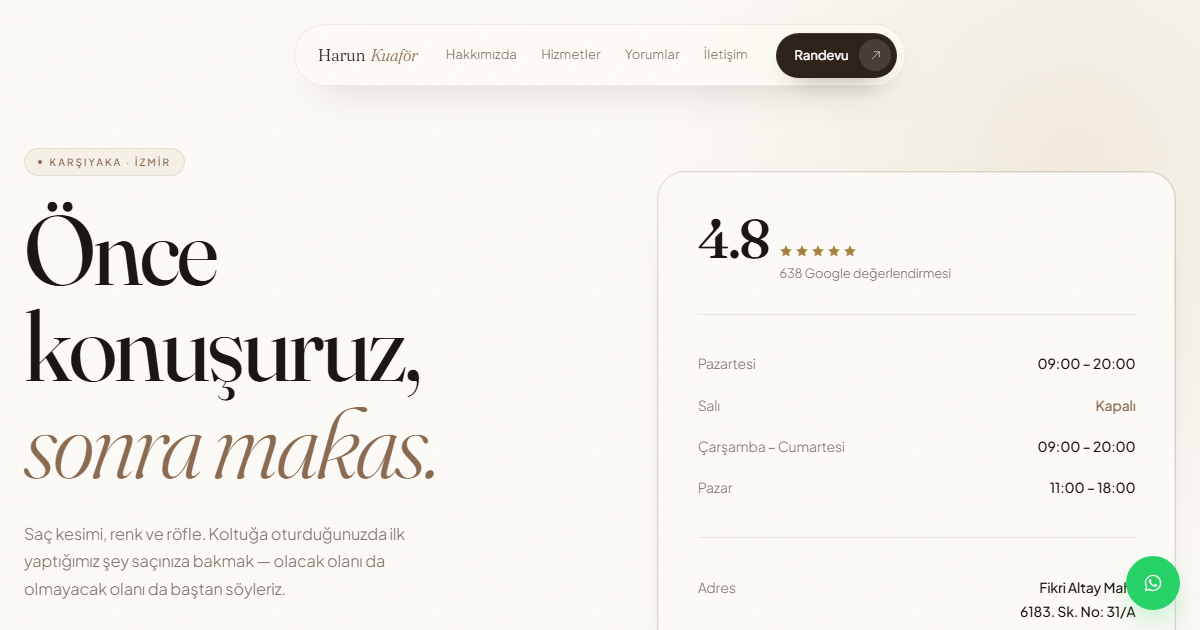
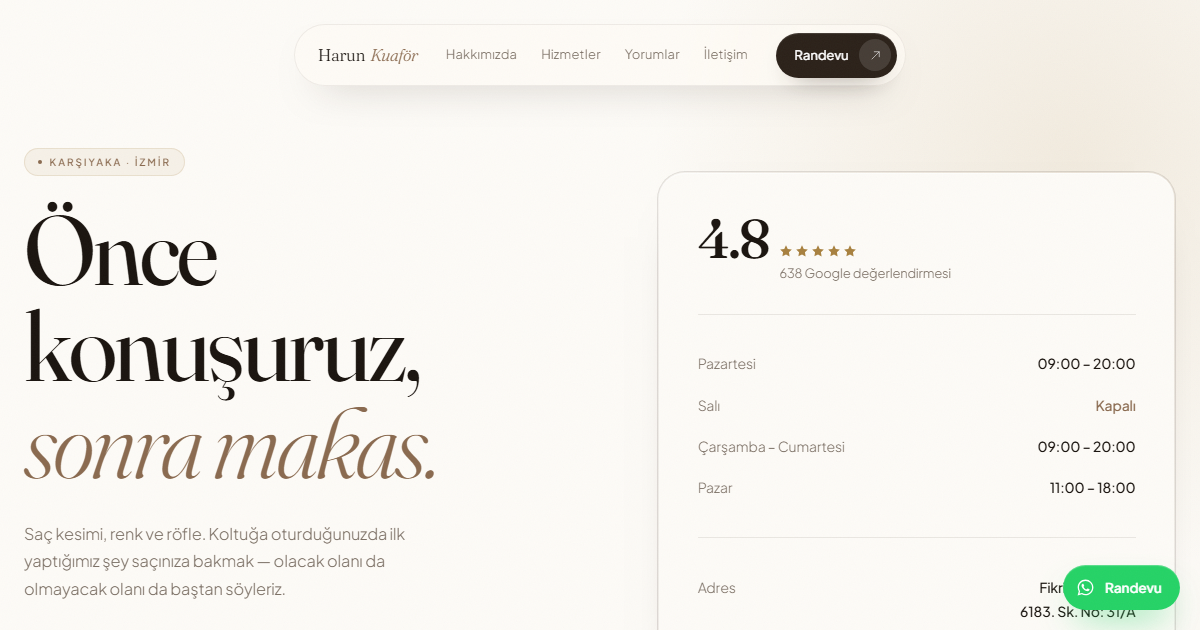
Etiketli WhatsApp hapi (babygirl kalibi)

Changed region(s): [[0.8633, 0.8746, 0.9867, 1.0]]

diff --git a/index.html b/index.html
@@ -266,12 +266,14 @@ footer ul a{display:inline-flex;align-items:center;min-height:44px;margin:-.55re
 .fbot{margin-top:4rem;padding-top:1.8rem;border-top:1px solid var(--hair-lt);display:flex;justify-content:space-between;gap:1rem;flex-wrap:wrap;font-size:.78rem;color:rgba(253,251,247,.42)}
 
 /* floating whatsapp */
-.wa{position:fixed;right:1.25rem;bottom:1.25rem;z-index:40;width:3.4rem;height:3.4rem;border-radius:999px;
-  background:#25D366;display:grid;place-items:center;
-  box-shadow:0 16px 34px -14px rgba(37,211,102,.75);
-  transition:transform .6s var(--ease)}
-.wa:hover{transform:scale(1.06) translateY(-2px)}
-.wa svg{width:20px;height:20px;fill:#fff}
+.wa{position:fixed;right:1.25rem;bottom:1.25rem;z-index:40;
+  display:inline-flex;align-items:center;gap:.6rem;padding:.7rem 1.15rem .7rem .85rem;border-radius:999px;
+  background:#25D366;color:#fff;font-size:.85rem;font-weight:600;letter-spacing:-.01em;
+  box-shadow:inset 0 1px 1px rgba(255,255,255,.28), 0 18px 36px -14px rgba(37,211,102,.7);
+  transition:transform .6s var(--ease), box-shadow .6s var(--ease)}
+.wa:hover{transform:translateY(-2px) scale(1.03);box-shadow:inset 0 1px 1px rgba(255,255,255,.28), 0 22px 42px -14px rgba(37,211,102,.8)}
+.wa svg{width:19px;height:19px;fill:#fff;flex:none}
+@media (max-width:768px){.wa{right:1rem;bottom:1rem}}
 
 /* ── mobile collapse ───────────────────────── */
 @media (max-width:900px){
@@ -627,7 +629,7 @@ footer ul a{display:inline-flex;align-items:center;min-height:44px;margin:-.55re
 
 <a class="wa" href="https://wa.me/905051158132" target="_blank" rel="noopener" aria-label="WhatsApp">
   <svg viewBox="0 0 24 24"><path d="M12.04 2C6.58 2 2.13 6.45 2.13 11.91c0 1.75.46 3.45 1.32 4.95L2 22l5.25-1.38a9.9 9.9 0 004.79 1.22h.01c5.46 0 9.91-4.45 9.91-9.91 0-2.65-1.03-5.14-2.9-7.01A9.82 9.82 0 0012.04 2zm0 18.15h-.01a8.2 8.2 0 01-4.19-1.15l-.3-.18-3.12.82.83-3.04-.2-.31a8.22 8.22 0 01-1.26-4.38c0-4.54 3.7-8.23 8.25-8.23a8.2 8.2 0 015.83 2.42 8.18 8.18 0 012.41 5.82c0 4.54-3.7 8.23-8.24 8.23zm4.52-6.16c-.25-.12-1.47-.72-1.69-.81-.23-.08-.39-.12-.56.13-.16.25-.64.8-.78.97-.15.16-.29.19-.54.06-.25-.12-1.05-.39-1.99-1.23-.74-.66-1.23-1.47-1.38-1.72-.14-.25-.01-.38.11-.51.11-.11.25-.29.37-.43.13-.15.17-.25.25-.41.08-.17.04-.31-.02-.43-.06-.12-.56-1.35-.76-1.85-.2-.48-.41-.42-.56-.43h-.48c-.17 0-.43.06-.66.31-.22.25-.86.85-.86 2.06s.89 2.39 1.01 2.56c.12.16 1.75 2.67 4.23 3.74.59.26 1.05.41 1.41.52.59.19 1.13.16 1.56.1.48-.07 1.47-.6 1.67-1.18.21-.58.21-1.08.15-1.18-.06-.11-.22-.17-.47-.29z"/></svg>
-</a>
+<span>Randevu</span></a>
 
 <script>
 (function(){
